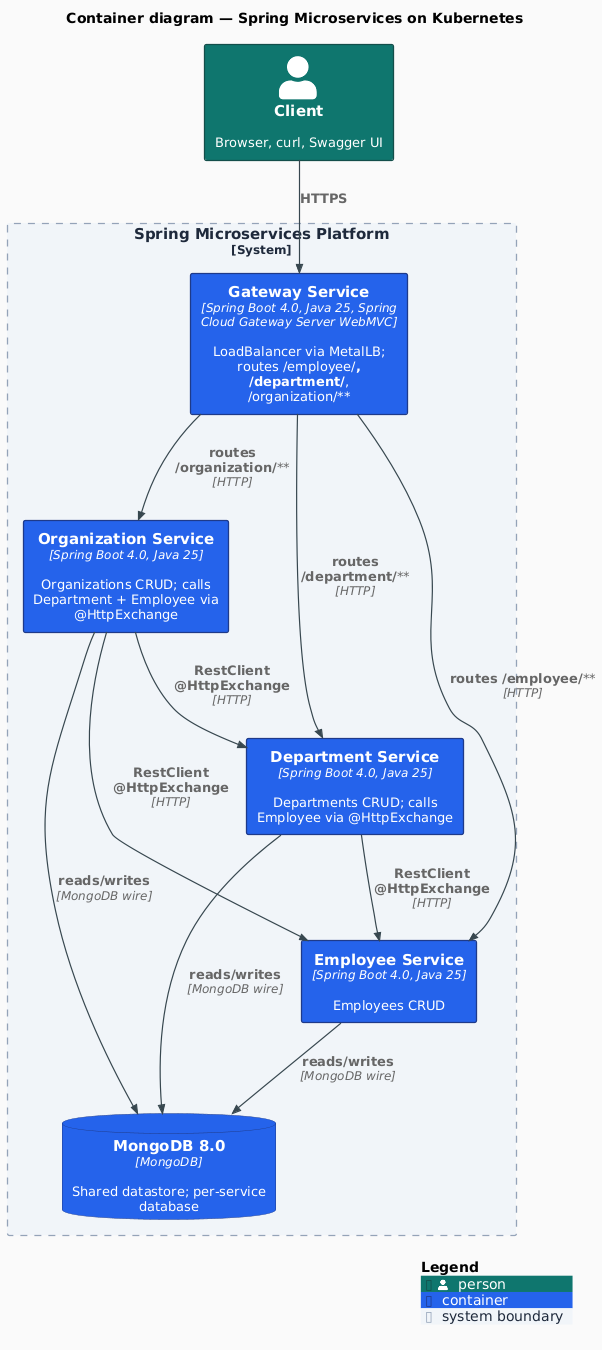
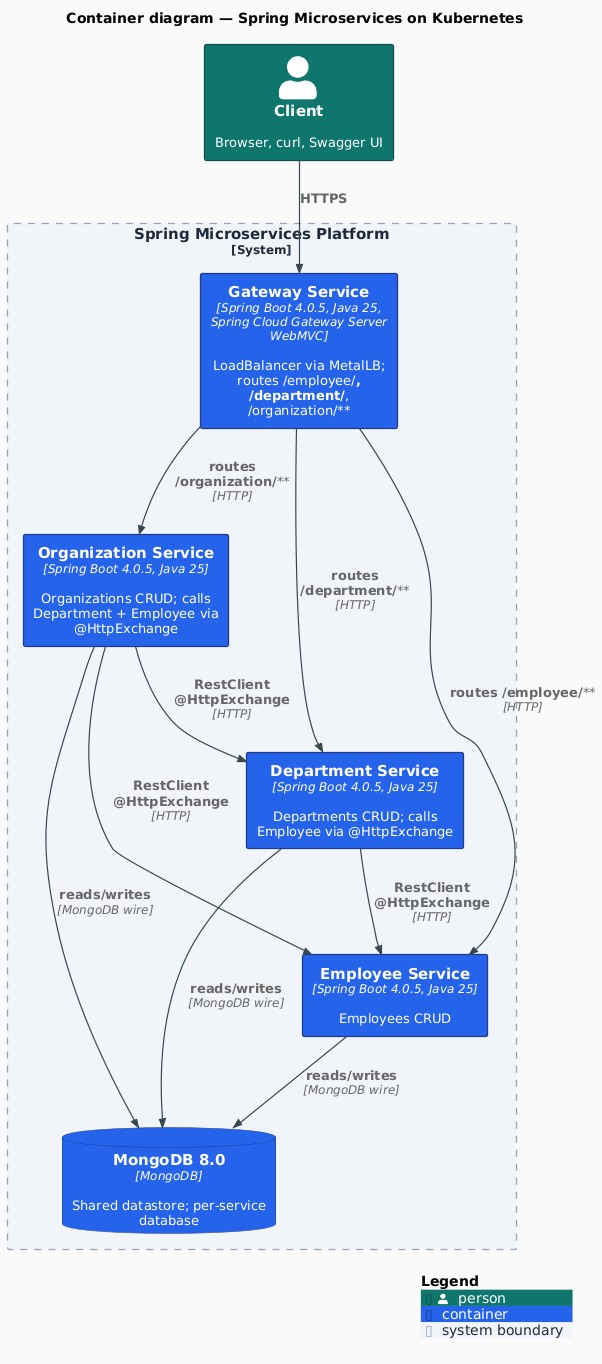
chore: project-wide maintenance pass
- Makefile: wire cve-check into the local `ci` target so OWASP runs in
  the full pre-push pipeline, not just in tagged CI jobs
- ci.yml: enforce coverage threshold (drop continue-on-error on
  `make coverage-check`); rename `Install Maven` steps to `Set up Maven`
  for consistency with GitHub Actions step-naming conventions
- docs/diagrams: add missing C4 Context diagram; refresh Container
  diagram tech-strings to match pom.xml (Spring Boot 4.0.5); re-render PNGs
- organization-service: add OrganizationWithDepartmentsIT and
  OrganizationWithEmployeesIT — single-level fan-out integration tests
  that stub department-service and employee-service via WireMock,
  mirroring the existing OrganizationDeepFanOutIT pattern
- CLAUDE.md: mention mermaid-cli in the static-analysis composite gate;
  extend Upgrade Backlog with Java 29 LTS (2027) and the
  SDKMAN/NVM -> mise migration (deferred)
- README.md: add Contributing and License sections per narrative order

diff --git a/organization-service/src/test/java/vmware/services/organization/OrganizationWithEmployeesIT.java b/organization-service/src/test/java/vmware/services/organization/OrganizationWithEmployeesIT.java
@@ -1,0 +1,133 @@
+package vmware.services.organization;
+
+import static com.github.tomakehurst.wiremock.client.WireMock.aResponse;
+import static com.github.tomakehurst.wiremock.client.WireMock.equalTo;
+import static com.github.tomakehurst.wiremock.client.WireMock.get;
+import static com.github.tomakehurst.wiremock.client.WireMock.getRequestedFor;
+import static com.github.tomakehurst.wiremock.client.WireMock.urlPathMatching;
+import static org.assertj.core.api.Assertions.assertThat;
+
+import com.github.tomakehurst.wiremock.WireMockServer;
+import com.github.tomakehurst.wiremock.core.WireMockConfiguration;
+import org.junit.jupiter.api.AfterAll;
+import org.junit.jupiter.api.BeforeAll;
+import org.junit.jupiter.api.BeforeEach;
+import org.junit.jupiter.api.Test;
+import org.springframework.beans.factory.annotation.Autowired;
+import org.springframework.beans.factory.annotation.Value;
+import org.springframework.boot.resttestclient.autoconfigure.AutoConfigureRestTestClient;
+import org.springframework.boot.test.context.SpringBootTest;
+import org.springframework.boot.test.context.TestConfiguration;
+import org.springframework.boot.testcontainers.service.connection.ServiceConnection;
+import org.springframework.context.annotation.Bean;
+import org.springframework.context.annotation.Import;
+import org.springframework.context.annotation.Primary;
+import org.springframework.test.context.ActiveProfiles;
+import org.springframework.test.context.DynamicPropertyRegistry;
+import org.springframework.test.context.DynamicPropertySource;
+import org.springframework.test.web.servlet.client.RestTestClient;
+import org.springframework.web.client.RestClient;
+import org.springframework.web.client.support.RestClientAdapter;
+import org.springframework.web.service.invoker.HttpServiceProxyFactory;
+import org.testcontainers.junit.jupiter.Container;
+import org.testcontainers.junit.jupiter.Testcontainers;
+import org.testcontainers.mongodb.MongoDBContainer;
+import vmware.services.organization.client.EmployeeClient;
+import vmware.services.organization.model.Organization;
+import vmware.services.organization.repository.OrganizationRepository;
+
+/**
+ * Single-level fan-out integration test for {@code GET /{id}/with-employees}. Stubs the
+ * employee-service peer with WireMock and verifies the organization payload gains a hydrated
+ * {@code employees[]} array.
+ */
+@SpringBootTest(
+    webEnvironment = SpringBootTest.WebEnvironment.RANDOM_PORT,
+    properties = "spring.main.allow-bean-definition-overriding=true")
+@AutoConfigureRestTestClient
+@Testcontainers
+@ActiveProfiles("test")
+@Import(OrganizationWithEmployeesIT.WireMockClientConfig.class)
+class OrganizationWithEmployeesIT {
+
+  @Container @ServiceConnection
+  static MongoDBContainer mongo = new MongoDBContainer("mongo:8.0.20");
+
+  static WireMockServer employeeStub;
+
+  @Autowired RestTestClient client;
+
+  @Autowired OrganizationRepository repository;
+
+  @BeforeAll
+  static void startWireMock() {
+    employeeStub = new WireMockServer(WireMockConfiguration.options().dynamicPort());
+    employeeStub.start();
+  }
+
+  @AfterAll
+  static void stopWireMock() {
+    if (employeeStub != null) {
+      employeeStub.stop();
+    }
+  }
+
+  @DynamicPropertySource
+  static void registerWireMockUrl(DynamicPropertyRegistry registry) {
+    registry.add("wiremock.employee.base-url", () -> employeeStub.baseUrl());
+  }
+
+  @BeforeEach
+  void resetState() {
+    repository.deleteAll();
+    employeeStub.resetAll();
+  }
+
+  @Test
+  void shouldFanOutToEmployeeServiceAndReturnHydratedOrganization() {
+    Organization saved = repository.save(new Organization("MegaCorp", "Main Street"));
+    String orgId = saved.getId();
+
+    employeeStub.stubFor(
+        get(urlPathMatching("/organization/" + orgId))
+            .willReturn(
+                aResponse()
+                    .withHeader("Content-Type", "application/json")
+                    .withBody(
+                        "[{\"id\":1,\"name\":\"Alice\",\"age\":30,\"position\":\"engineer\"},"
+                            + "{\"id\":2,\"name\":\"Bob\",\"age\":35,\"position\":\"architect\"}]")));
+
+    client
+        .get()
+        .uri("/" + orgId + "/with-employees")
+        .exchange()
+        .expectStatus()
+        .isOk()
+        .expectBody(Organization.class)
+        .value(
+            body -> {
+              assertThat(body.getName()).isEqualTo("MegaCorp");
+              assertThat(body.getEmployees()).hasSize(2);
+              assertThat(body.getEmployees())
+                  .extracting("name")
+                  .containsExactlyInAnyOrder("Alice", "Bob");
+            });
+
+    employeeStub.verify(
+        getRequestedFor(urlPathMatching("/organization/" + orgId))
+            .withHeader("Accept", equalTo("application/json")));
+  }
+
+  @TestConfiguration
+  static class WireMockClientConfig {
+
+    @Bean
+    @Primary
+    EmployeeClient employeeClient(@Value("${wiremock.employee.base-url}") String baseUrl) {
+      RestClient restClient = RestClient.builder().baseUrl(baseUrl).build();
+      return HttpServiceProxyFactory.builderFor(RestClientAdapter.create(restClient))
+          .build()
+          .createClient(EmployeeClient.class);
+    }
+  }
+}

diff --git a/organization-service/src/test/java/vmware/services/organization/OrganizationWithDepartmentsIT.java b/organization-service/src/test/java/vmware/services/organization/OrganizationWithDepartmentsIT.java
@@ -1,0 +1,133 @@
+package vmware.services.organization;
+
+import static com.github.tomakehurst.wiremock.client.WireMock.aResponse;
+import static com.github.tomakehurst.wiremock.client.WireMock.equalTo;
+import static com.github.tomakehurst.wiremock.client.WireMock.get;
+import static com.github.tomakehurst.wiremock.client.WireMock.getRequestedFor;
+import static com.github.tomakehurst.wiremock.client.WireMock.urlPathMatching;
+import static org.assertj.core.api.Assertions.assertThat;
+
+import com.github.tomakehurst.wiremock.WireMockServer;
+import com.github.tomakehurst.wiremock.core.WireMockConfiguration;
+import org.junit.jupiter.api.AfterAll;
+import org.junit.jupiter.api.BeforeAll;
+import org.junit.jupiter.api.BeforeEach;
+import org.junit.jupiter.api.Test;
+import org.springframework.beans.factory.annotation.Autowired;
+import org.springframework.beans.factory.annotation.Value;
+import org.springframework.boot.resttestclient.autoconfigure.AutoConfigureRestTestClient;
+import org.springframework.boot.test.context.SpringBootTest;
+import org.springframework.boot.test.context.TestConfiguration;
+import org.springframework.boot.testcontainers.service.connection.ServiceConnection;
+import org.springframework.context.annotation.Bean;
+import org.springframework.context.annotation.Import;
+import org.springframework.context.annotation.Primary;
+import org.springframework.test.context.ActiveProfiles;
+import org.springframework.test.context.DynamicPropertyRegistry;
+import org.springframework.test.context.DynamicPropertySource;
+import org.springframework.test.web.servlet.client.RestTestClient;
+import org.springframework.web.client.RestClient;
+import org.springframework.web.client.support.RestClientAdapter;
+import org.springframework.web.service.invoker.HttpServiceProxyFactory;
+import org.testcontainers.junit.jupiter.Container;
+import org.testcontainers.junit.jupiter.Testcontainers;
+import org.testcontainers.mongodb.MongoDBContainer;
+import vmware.services.organization.client.DepartmentClient;
+import vmware.services.organization.model.Organization;
+import vmware.services.organization.repository.OrganizationRepository;
+
+/**
+ * Single-level fan-out integration test for {@code GET /{id}/with-departments}. Stubs the
+ * department-service peer with WireMock and verifies the organization payload gains a hydrated
+ * {@code departments[]} array.
+ */
+@SpringBootTest(
+    webEnvironment = SpringBootTest.WebEnvironment.RANDOM_PORT,
+    properties = "spring.main.allow-bean-definition-overriding=true")
+@AutoConfigureRestTestClient
+@Testcontainers
+@ActiveProfiles("test")
+@Import(OrganizationWithDepartmentsIT.WireMockClientConfig.class)
+class OrganizationWithDepartmentsIT {
+
+  @Container @ServiceConnection
+  static MongoDBContainer mongo = new MongoDBContainer("mongo:8.0.20");
+
+  static WireMockServer departmentStub;
+
+  @Autowired RestTestClient client;
+
+  @Autowired OrganizationRepository repository;
+
+  @BeforeAll
+  static void startWireMock() {
+    departmentStub = new WireMockServer(WireMockConfiguration.options().dynamicPort());
+    departmentStub.start();
+  }
+
+  @AfterAll
+  static void stopWireMock() {
+    if (departmentStub != null) {
+      departmentStub.stop();
+    }
+  }
+
+  @DynamicPropertySource
+  static void registerWireMockUrl(DynamicPropertyRegistry registry) {
+    registry.add("wiremock.department.base-url", () -> departmentStub.baseUrl());
+  }
+
+  @BeforeEach
+  void resetState() {
+    repository.deleteAll();
+    departmentStub.resetAll();
+  }
+
+  @Test
+  void shouldFanOutToDepartmentServiceAndReturnHydratedOrganization() {
+    Organization saved = repository.save(new Organization("MegaCorp", "Main Street"));
+    String orgId = saved.getId();
+
+    departmentStub.stubFor(
+        get(urlPathMatching("/organization/" + orgId))
+            .willReturn(
+                aResponse()
+                    .withHeader("Content-Type", "application/json")
+                    .withBody(
+                        "[{\"id\":1,\"name\":\"Engineering\"},"
+                            + "{\"id\":2,\"name\":\"Marketing\"}]")));
+
+    client
+        .get()
+        .uri("/" + orgId + "/with-departments")
+        .exchange()
+        .expectStatus()
+        .isOk()
+        .expectBody(Organization.class)
+        .value(
+            body -> {
+              assertThat(body.getName()).isEqualTo("MegaCorp");
+              assertThat(body.getDepartments()).hasSize(2);
+              assertThat(body.getDepartments())
+                  .extracting("name")
+                  .containsExactlyInAnyOrder("Engineering", "Marketing");
+            });
+
+    departmentStub.verify(
+        getRequestedFor(urlPathMatching("/organization/" + orgId))
+            .withHeader("Accept", equalTo("application/json")));
+  }
+
+  @TestConfiguration
+  static class WireMockClientConfig {
+
+    @Bean
+    @Primary
+    DepartmentClient departmentClient(@Value("${wiremock.department.base-url}") String baseUrl) {
+      RestClient restClient = RestClient.builder().baseUrl(baseUrl).build();
+      return HttpServiceProxyFactory.builderFor(RestClientAdapter.create(restClient))
+          .build()
+          .createClient(DepartmentClient.class);
+    }
+  }
+}

diff --git a/CLAUDE.md b/CLAUDE.md
@@ -70,7 +70,7 @@ make kind-undeploy # Remove services but keep the cluster running
 - Kubernetes (Kind + MetalLB for local dev)
 - MongoDB 8.0 (official `mongo` image, non-root UID 999, version-pinned for Renovate)
 - Testcontainers (integration tests)
-- Checkstyle + hadolint + gitleaks + Trivy + PlantUML drift check (static analysis composite gate via `make static-check`)
+- Checkstyle + hadolint + gitleaks + Trivy + PlantUML drift check + `mermaid-cli` (Mermaid lint) (static analysis composite gate via `make static-check`)
 
 ## Upgrade Backlog
 
@@ -78,6 +78,8 @@ make kind-undeploy # Remove services but keep the cluster running
 |---|------|--------|-------|
 | 1 | Drop `tools.jackson.core:jackson-core` override | Blocked on Spring Boot 4.0.6 | Module poms pin `tools.jackson.core:jackson-core:3.1.1` in `<dependencyManagement>` to fix **GHSA-2m67-wjpj-xhg9** (HIGH — Document length constraint bypass). Spring Boot 4.0.5 manages `jackson-core:3.1.0` which is vulnerable. Remove the override once SB 4.0.6 (or later) ships with 3.1.1 managed; Renovate should flag it via the Spring Boot group rule. Verify by running `mvn dependency:tree -Dincludes=tools.jackson.core:jackson-core` and confirming the natural version is ≥ 3.1.1. |
 | 2 | `actions/cache` Node 20 deprecation (transitive via `sigstore/cosign-installer`) | Blocked on upstream | Node 20 hard-removed from GitHub Actions runners **2026-09-16**. The cache action is a transitive dep inside `sigstore/cosign-installer@v4.1.1` — we're already on latest. Renovate will ship the next cosign-installer release automatically. No manual action; track so it doesn't surprise us in Sept. |
+| 3 | Java 25 → Java 29 LTS migration | Planned for Q3–Q4 2027 | Java 25 is a non-LTS release (6-month support). Next LTS is **Java 29** (Sep 2027). No action needed now — Temurin 25 still receives security backports through its standard window, and the `eclipse-temurin:25.0.2_10-jre-noble@sha256:…` digest is re-pinned by Renovate when new patches ship. Plan the Java 29 bump when `.java-version`, parent pom `<java.version>`, all four module `pom.xml` targets, and `JAVA_VER` / `JAVA_MAJOR` in the Makefile move together. |
+| 4 | SDKMAN/NVM → mise migration | Deferred | Current bootstrap uses SDKMAN for Java/Maven (`deps-install`) and NVM for Node (`renovate-bootstrap`). `/upgrade-analysis` flags mise as the cross-project standard — a single `.mise.toml` pins Java + Maven + Node together, mise reads `.nvmrc` and `.java-version` natively, and `MISE_VERSION` is Renovate-trackable. Deferred because SDKMAN is still working and the `maven-simple` reference repo (portfolio convention) is also on SDKMAN. Revisit if that reference repo migrates. |
 
 ## Skills
 

diff --git a/README.md b/README.md
@@ -327,6 +327,14 @@ A weekly [cleanup workflow](.github/workflows/cleanup-runs.yml) prunes old workf
 
 [Renovate](https://docs.renovatebot.com/) keeps dependencies up to date with platform automerge enabled.
 
+## Contributing
+
+Contributions welcome — open a PR. Run `make static-check` locally before pushing; the full pipeline is reproducible via `make ci` (and `make ci-run` to exercise the GitHub Actions workflow through [act](https://github.com/nektos/act)).
+
+## License
+
+[MIT](LICENSE).
+
 ## Stargazers over time
 
 [![Stargazers over time](https://starchart.cc/AndriyKalashnykov/spring-microservices-k8s.svg?variant=adaptive)](https://starchart.cc/AndriyKalashnykov/spring-microservices-k8s)
